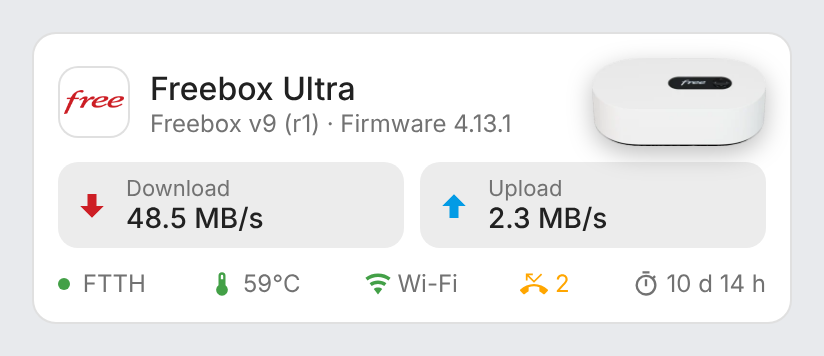
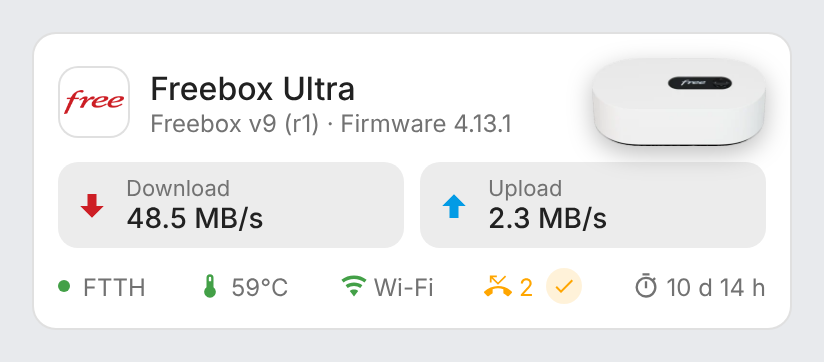
Mark calls as read from the mini card (1.5.1) (#5)
The mini card footer gets a small check button next to the missed
calls count, pressing the same mark_calls_as_read button.
Screenshots regenerated.

Claude-Session: https://claude.ai/code/session_017JzJqMNNFYQBfDS2KaS4H4

diff --git a/src/freebox-card.js b/src/freebox-card.js
@@ -732,6 +732,10 @@ const MINI_STYLE = `
   .foot span { display: inline-flex; align-items: center; gap: 3px; }
   .foot .icon { width: 14px; height: 14px; }
   .foot .ok .icon { color: var(--fb-ok); } .foot .warn { color: var(--fb-warn); } .foot .crit { color: var(--fb-crit); }
+  .foot .reset { display: grid; place-items: center; width: 18px; height: 18px; padding: 0; margin-left: 3px; border: none;
+    border-radius: 50%; cursor: pointer; color: var(--fb-warn); background: color-mix(in srgb, var(--fb-warn) 15%, transparent); }
+  .foot .reset:hover { background: color-mix(in srgb, var(--fb-warn) 28%, transparent); }
+  .foot .reset .icon { width: 12px; height: 12px; }
 `;
 
 class FreeboxMiniCard extends FreeboxBase {
@@ -794,8 +798,15 @@ class FreeboxMiniCard extends FreeboxBase {
         wifi.state === "on" ? ICONS.wifi : ICONS.wifi_off
       )}${this._t("wifi")}</span>`);
     const missed = this._s(sc.missed);
-    if (missed && (num(missed) ?? 0) > 0)
-      foot.push(`<span class="clickable warn" data-entity="${missed.entity_id}">${svgIcon(ICONS.phone_missed)}${num(missed)}</span>`);
+    if (missed && (num(missed) ?? 0) > 0) {
+      const markRead = this._s(sc.mark_read);
+      const reset = markRead
+        ? `<button class="reset" data-press="${markRead.entity_id}" title="${esc(this._t("mark_read"))}" aria-label="${esc(
+            this._t("mark_read")
+          )}">${svgIcon(ICONS.check)}</button>`
+        : "";
+      foot.push(`<span class="clickable warn" data-entity="${missed.entity_id}">${svgIcon(ICONS.phone_missed)}${num(missed)}${reset}</span>`);
+    }
     const up = uptimeSec(router);
     if (up !== null) foot.push(`<span>${svgIcon(ICONS.timer)}${fmtUptime(up, this._hass, this._config)}</span>`);
     return `<style>${BASE_STYLE}${MINI_STYLE}</style>

diff --git a/README.md b/README.md
@@ -28,7 +28,7 @@ The cards are built on top of the [Freebox integration](https://www.home-assista
 - Temperature gauges and fans speed
 - Storage: free space of the disk partitions and RAID status
 - Services: Wi-Fi state, missed calls and connected devices
-- A check button on the calls tile marks the missed calls as read (the integration's **Mark calls as read** button), shown only when there are missed calls
+- A check button next to the missed calls (calls tile, mini card footer) marks them as read (the integration's **Mark calls as read** button), shown only when there are missed calls
 - Colors turn orange / red when a threshold is crossed (temperatures, disk usage, missed calls)
 - Click any value to open its Home Assistant history (more-info dialog)
 - Click the Free logo to open free.fr, and the Freebox picture to open the Freebox OS admin interface

diff --git a/CHANGELOG.md b/CHANGELOG.md
@@ -1,5 +1,10 @@
 # Changelog
 
+## 1.5.1
+
+### Changes
+- The mini card gets the button too: a small check next to the missed calls count in its footer marks them as read.
+
 ## 1.5.0
 
 ### New
